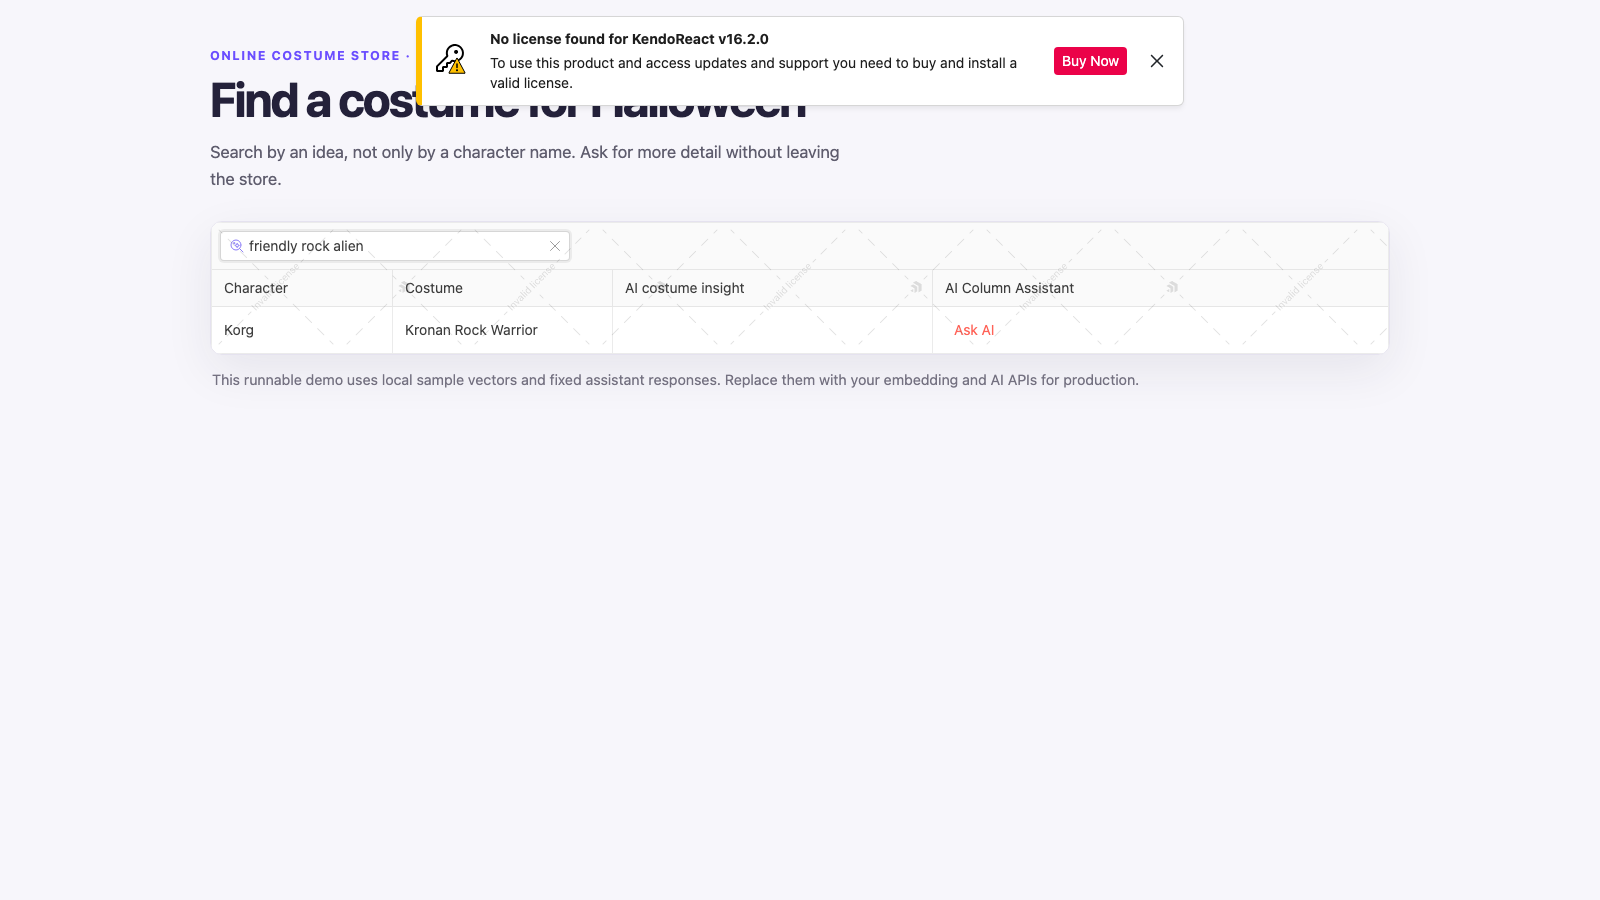
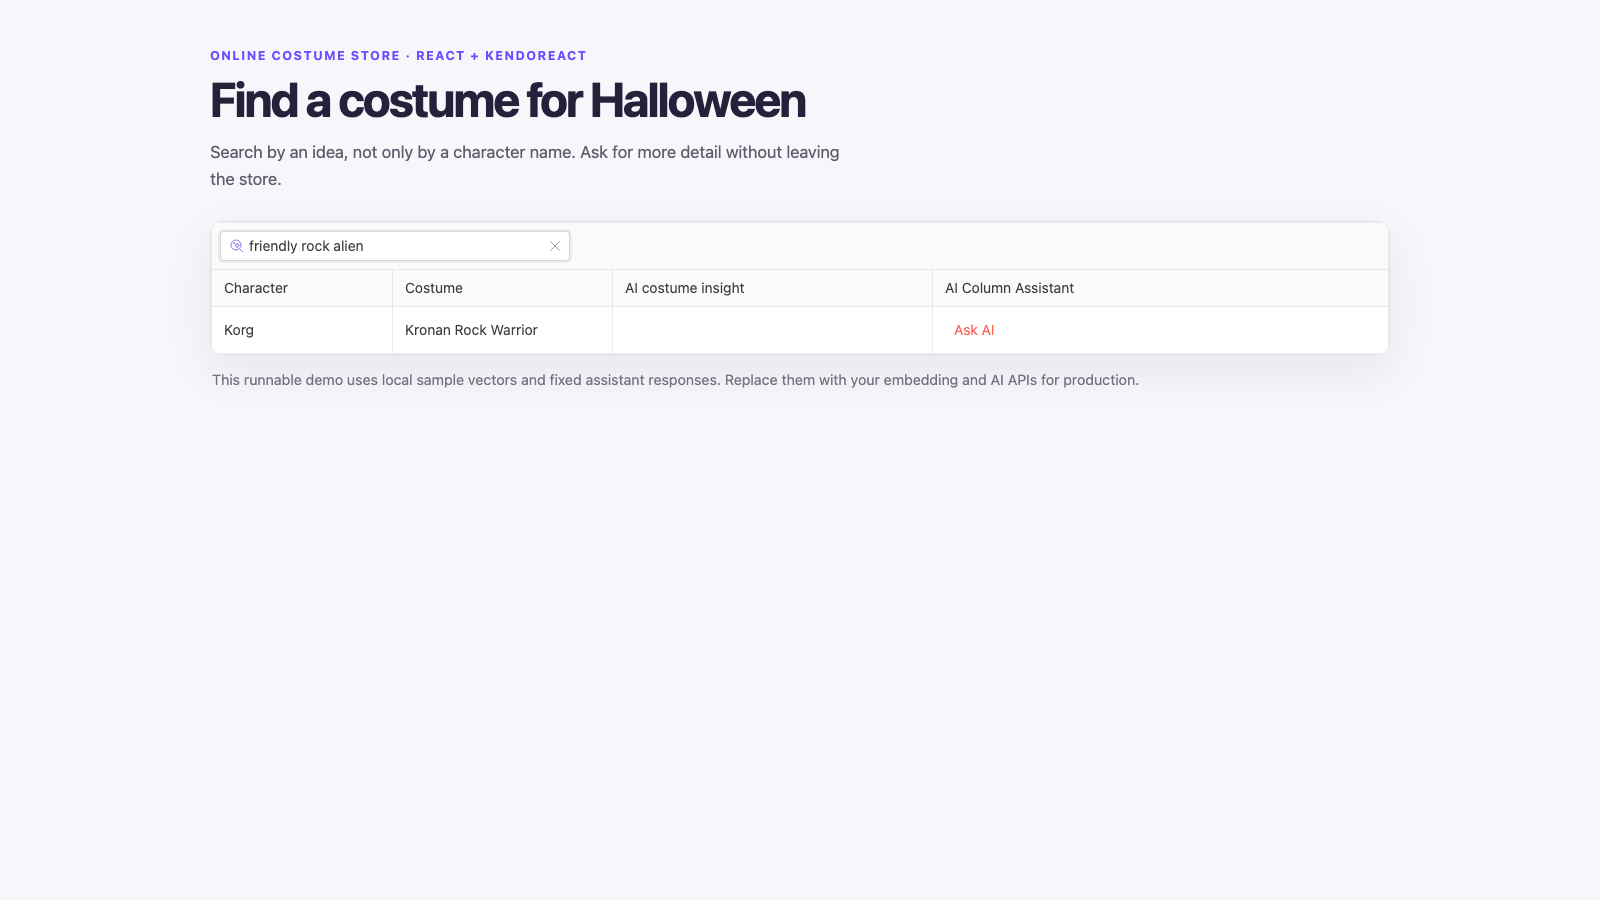
Document and enable Kendo licensing

Changed region(s): [[0.25, 0.0311, 0.625, 0.1244], [0.6562, 0.0311, 0.7188, 0.0933]]

diff --git a/README.md b/README.md
@@ -23,6 +23,19 @@ cd nx-kendo-smart-grid
 npm ci
 ```
 
+From the workspace root, the `nx-kendo-smart-grid` directory where you ran
+`npm ci`, activate your Telerik license or trial before starting either app:
+
+```bash
+npx kendo-ui-license activate
+```
+
+The command looks for a key in your Telerik home folder or environment
+variables. If no key is active, the apps still run, but Kendo UI displays a
+watermark and a license message in the browser. You can
+[start a 30-day trial](https://www.telerik.com/try/kendo-angular-ui) without a
+credit card.
+
 Start either app from the workspace root. Use separate terminals to run both
 at the same time:
 
